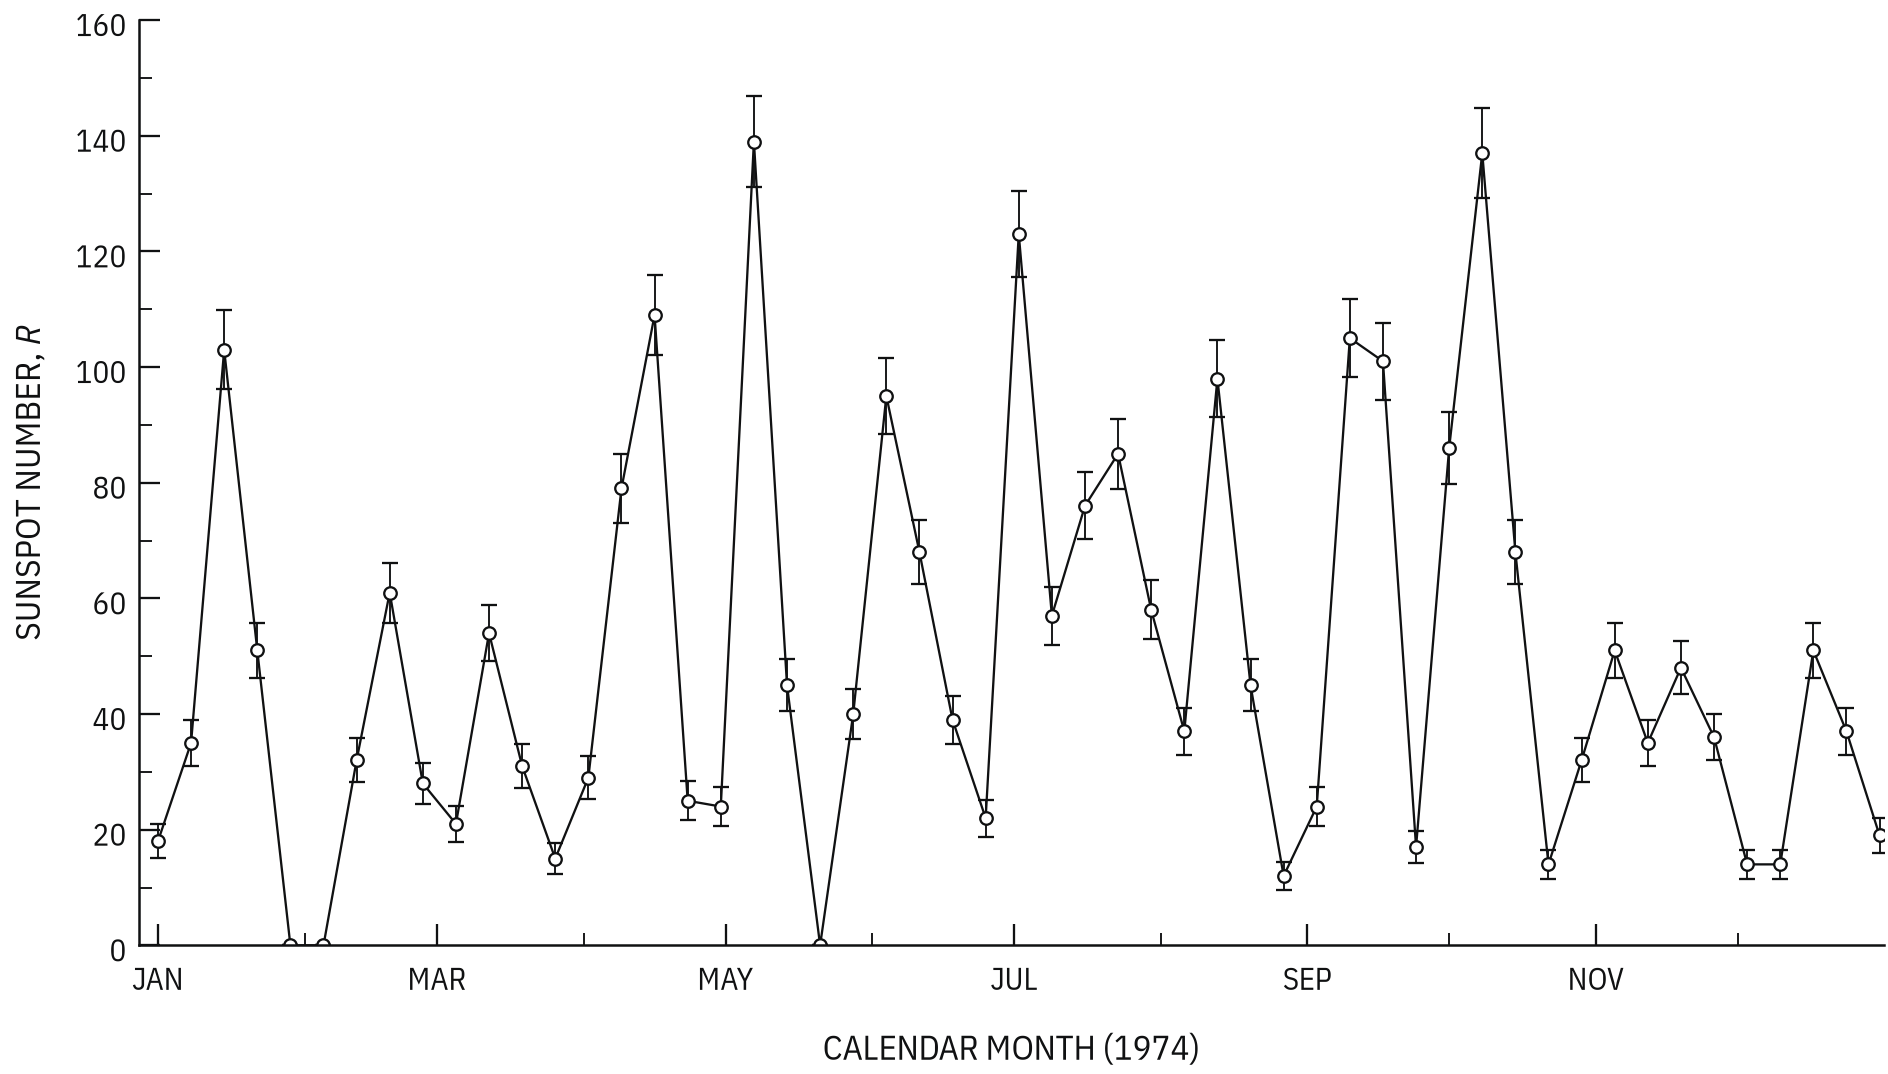
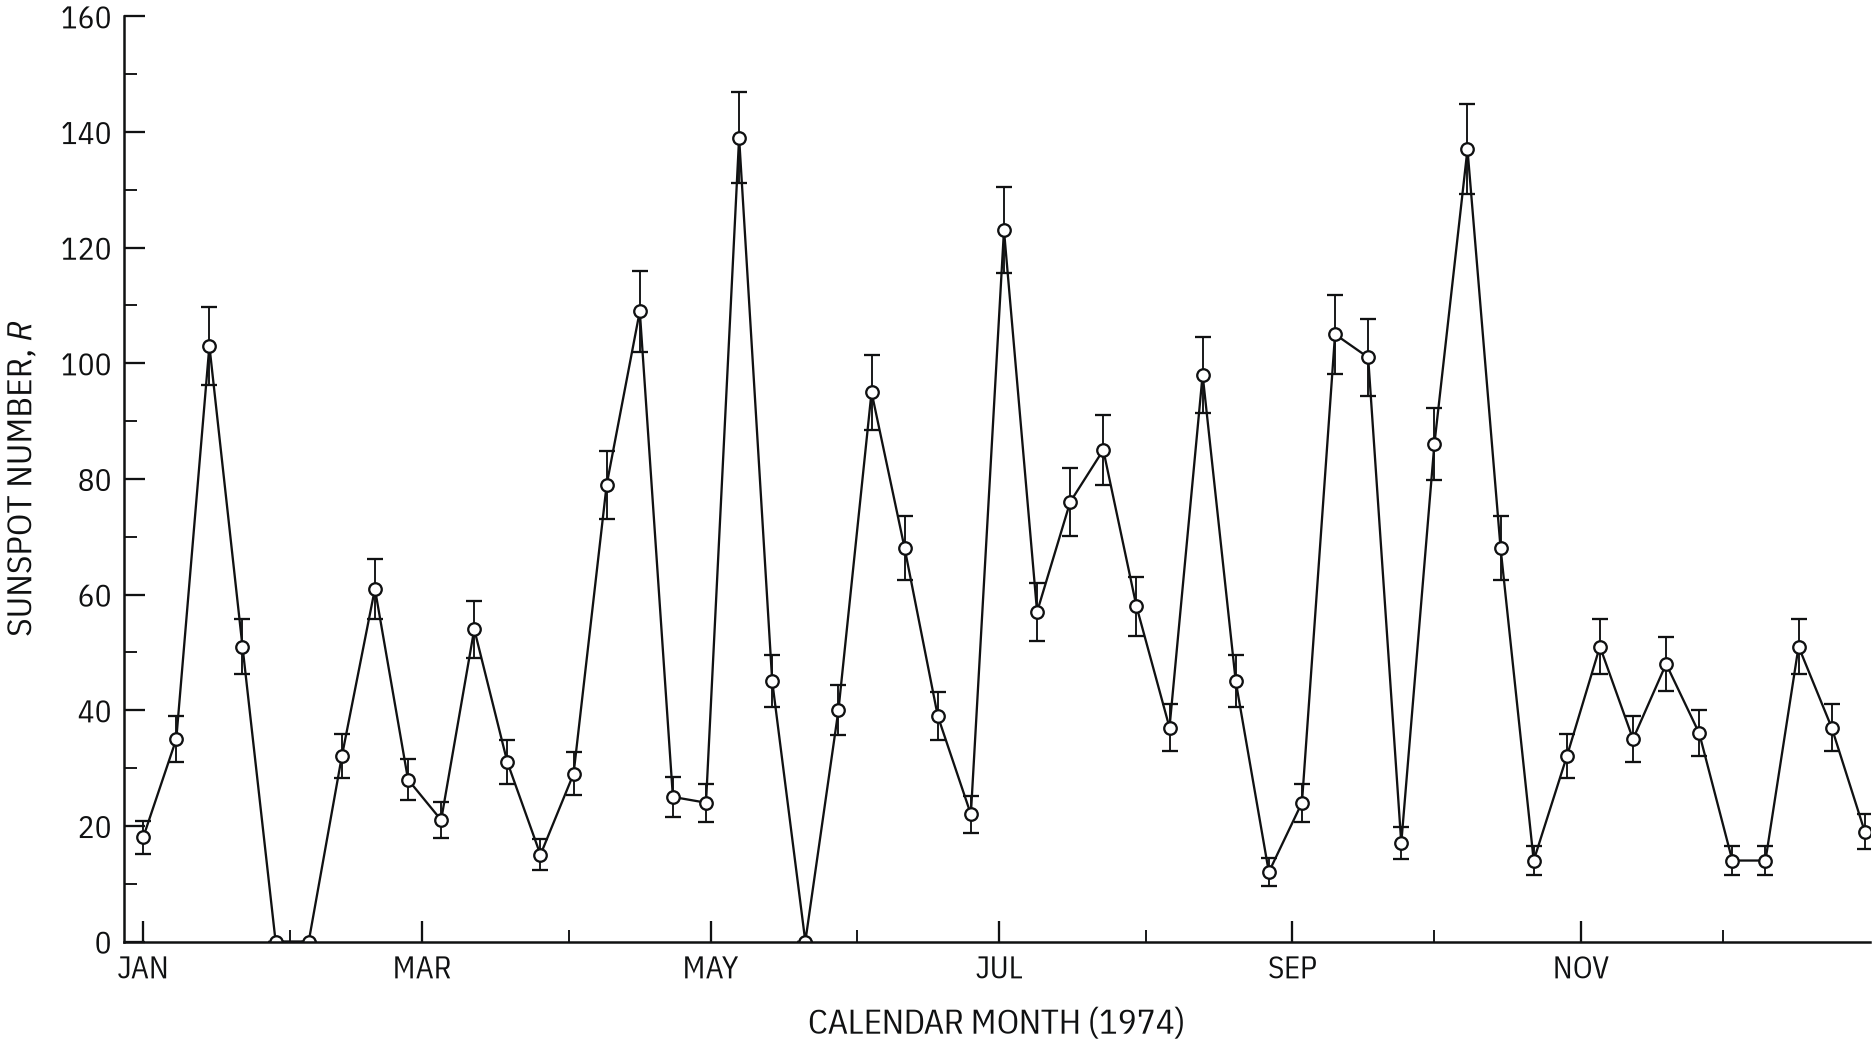
docs: refresh gallery and examples

diff --git a/README.md b/README.md
@@ -1,6 +1,6 @@
 # lab74
 
-[![Apollo 17 orange and gray soil grain-size distributions](examples/output/03_apollo17_soil_grain_size.png)](examples/03_apollo17_soil_grain_size.ipynb)
+[![Apollo 17 subsurface heat-flow temperatures](examples/output/02_apollo17_hfe.png)](examples/02_apollo17_hfe.ipynb)
 
 `lab74` is a Matplotlib style layer for scientific and institutional 
 figures in the technical print style of ca. 1965–1980.
@@ -41,8 +41,8 @@ the `instrument` accent and proportional technical text.
 Use these options to change the color or the typeface:
 
 ```python
-lab74.use(accent="aerospace")        # Use a different accent.
-lab74.use(accent=None)               # Use ink only.
+lab74.use(accent="aerospace")  # Use a different accent.
+lab74.use(accent=None)  # Use the monochrome line-series palette.
 lab74.use(accent=None, face="mono")  # Use monospaced text.
 ```
 
@@ -56,9 +56,16 @@ This method uses the default `instrument` accent.
 
 ## Plot tools
 
-`lab74` includes small tools for annotations, error bars, hatched regions,
-contours, maps, ticks, frames, and multipanel layouts. These tools return normal
-Matplotlib artists. Thus, you can change the result with the Matplotlib API.
+`lab74` includes small tools for annotations, error bars, grouped bars, hatched
+regions, contours, maps, ticks, frames, and multipanel layouts. These tools
+return normal Matplotlib artists. Thus, you can change the result with the
+Matplotlib API.
+
+`grouped_bar` applies the bar sequence across series, while `separated_bar`
+applies it across individual bars. Both suppress tick marks, but not labels, on
+the categorical axis.
+The accented and monochrome sequences for each plot type are defined together
+in [`src/lab74/sequences.py`](src/lab74/sequences.py).
 
 Use ink and a maximum of one accent color in each figure. Set the final axis
 limits before you add stipple. This makes the stipple density correct.
@@ -66,8 +73,12 @@ limits before you add stipple. This makes the stipple density correct.
 See [src/lab74/](src/lab74/) for all available tools and their
 docstrings.
 
-## Examples
+## Gallery
 
 Executable notebooks are in the [examples/](examples/). 
 They use scientific data from SILSO, the NASA archives, and the NOAA/NCEP–NCAR
 Reanalysis 1 project. Rendered images are in [`examples/output/`](examples/output/).
+
+[![Apollo 17 orange and gray soil grain-size distributions](examples/output/03_apollo17_soil_grain_size.png)](examples/03_apollo17_soil_grain_size.ipynb)
+
+[![Lunar landing-site soil composition by terrain type](examples/output/05_lunar_soil_composition.png)](examples/05_lunar_soil_composition.ipynb)
